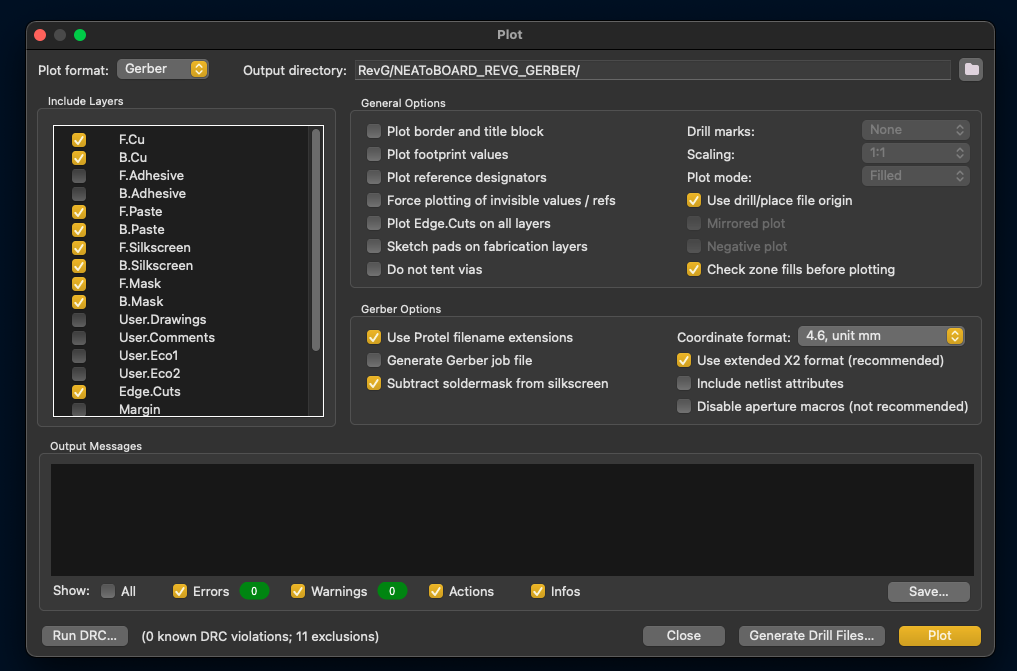
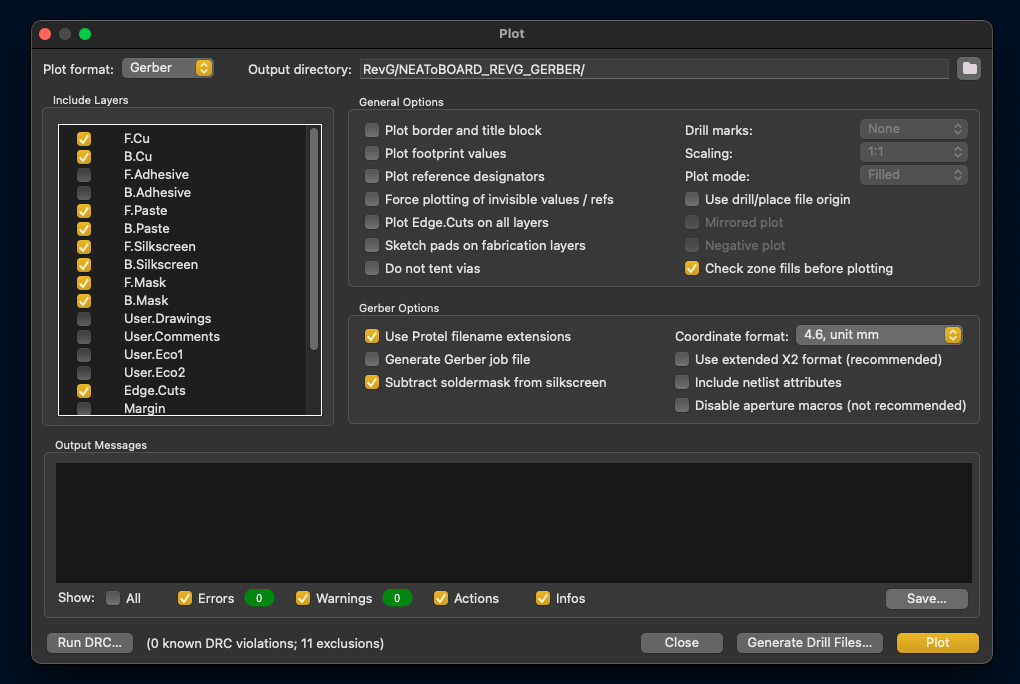
update readme

Changed region(s): [[0.0, 0.0298, 1.0, 0.9836], [0.4877, 0.0298, 0.5182, 0.0596]]

diff --git a/PcbExport.py b/PcbExport.py
@@ -35,7 +35,7 @@ from SplitGerberComposition import *
 
 
 DEBUG_PANEL_EXPORT = False
-DEBUG_PANEL_EXPORT_ANGLE = 90.0
+DEBUG_PANEL_EXPORT_ANGLE = 0.0
 
 
 def is_pth(name):

diff --git a/README.md b/README.md
@@ -76,16 +76,16 @@ so we wrote one.
 
 It might. The gerber viewer part should almost certainly work, but the panelizer feature is another story.
 
-To ensure that your panel gets fabricated correctly, we recommend not to use hm-panelizer's built-in rotate function 
+To ensure that your panel gets fabricated correctly, we recommend not to use hm-panelizer's **horizontal/vertical** feature 
 (for now, until we get more feedback from you), 
-but instead to do it from within your pcb app of choice and only use hm-panelizer for layout and mouse bites functionality.
-We worked hard to make sure that flipping a pcb board horizontally works, but we can not guarantee it. The short story is that
-Pcb houses do not seem to respect rotating macro's instructions using their rotate parameter, so we had to resort to
+but instead to rotate your Pcb from within your design app (ex. KiCad) and only use hm-panelizer for layout and mouse bites functionality.
+We worked hard to make sure that flipping a pcb board **horizontally/vertically** works, but we can not guarantee it. The reason is that
+Pcb houses do not seem to respect rotating macro's instructions using macro's rotate parameter, so we had to resort to
 an alternate mechanism of rotating macros, by swapping their arguments and rotating the points themselves. This, however,
 works only with built-in macros and a generic `RoundRect` macro as used by KiCad. If your board uses any other fancy macros,
-this will most definitively not work and support will need to be added - see https://github.com/halfmarble/hm-panelizer/blob/86cb3a3fc05cd13d94929fc22d47c28c405fa6f1/hm_gerber_tool/gerber_statements.py#L378
+this will most definitively not work (KiCad offers **"Disable aperture macros"** when exporting gerber files to workaround this?)
 
-We personally use KiCad 6.x and we wanted to panelize our own Pcb (NEAToBOARD),
+We personally use KiCad 6.x and we wanted to panelize our own Pcb (i.e. NEAToBOARD),
 so that's what we mostly tested. We did try a few other Pcbs created with other software and we are eager to hear your
 experience.
 
@@ -98,7 +98,6 @@ Having said that, here are requirements to create a Pcb that should make it suit
 - your pcb gerber files must use **Altium/Protel filename extensions** (see https://pcbprime.com/pcb-tips/accepted-file-formats/Gerber%20File%20Extension%20Comparison.pdf)
 - the **board outline gerber file** (.gm1) must be present
 - currently, our tool can only add **mouse-bites to perfectly straight lines** (see hm-panelizer's "Outline verification" feature)
-- for optimal results use drill/place origin and grid origin at (0, 0)
 
 Here are the KiCad settings we personally use to export our Pcbs:
 
